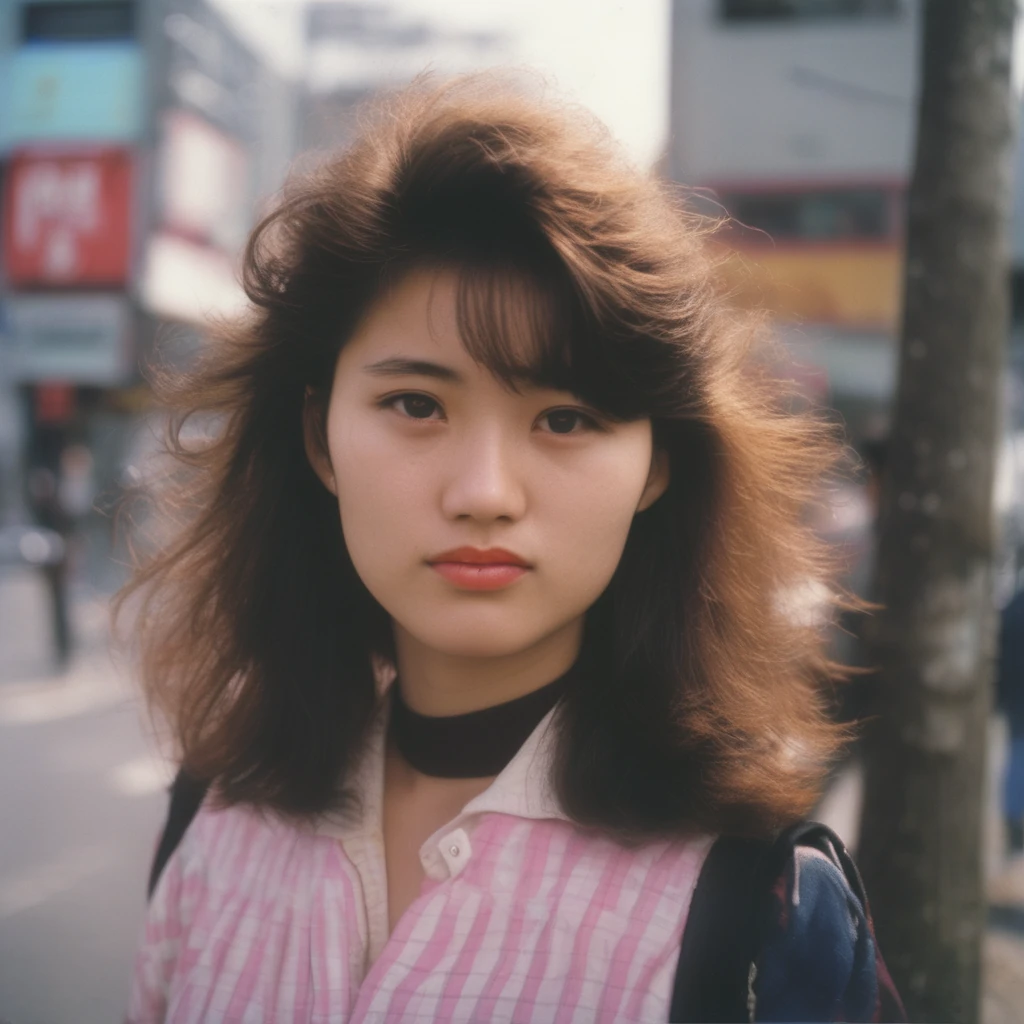
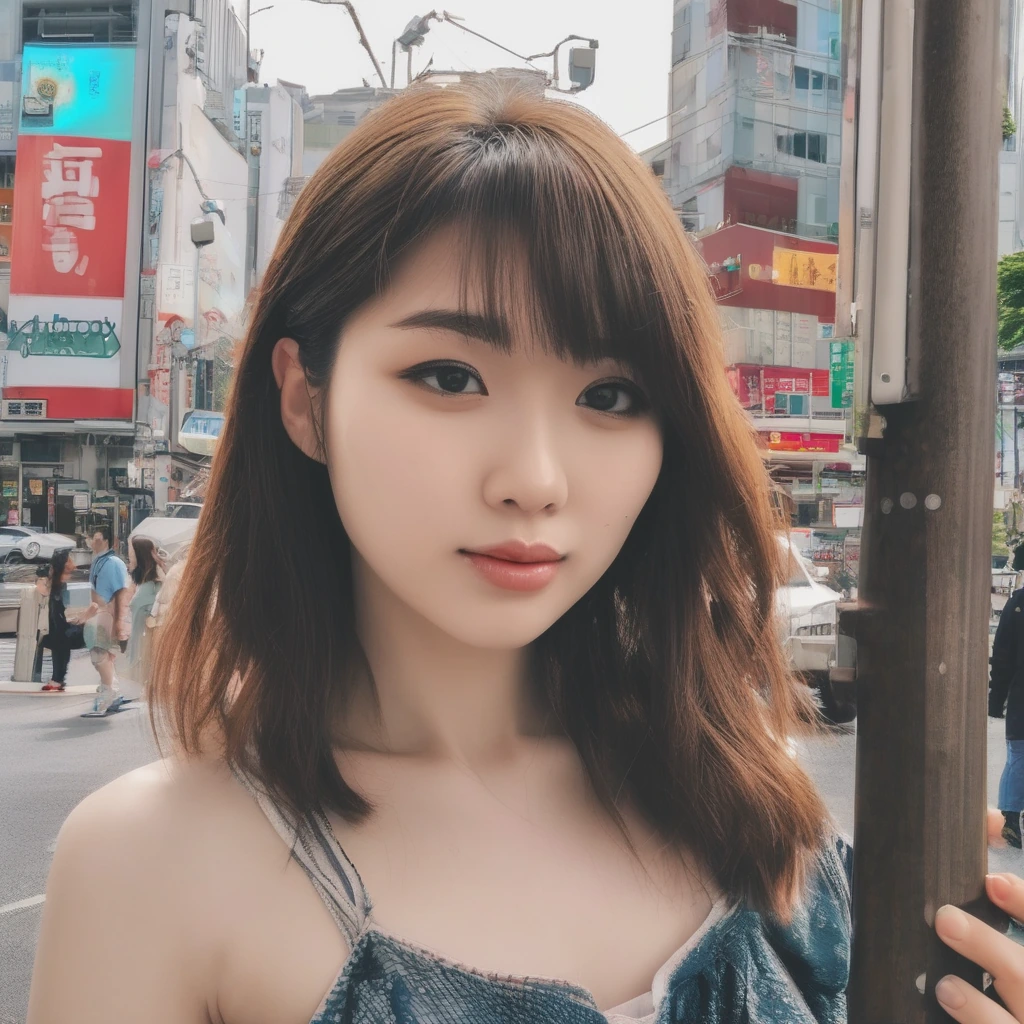
Add media

diff --git a/src/data/families.ts b/src/data/families.ts
@@ -65,10 +65,11 @@ const sdxlPmdFiles: Partial<Record<string, readonly string[]>> = {
   '01': ['iter825_seed51', 'iter825_seed52', 'iter825_seed53', 'iter825_seed57'],
   // Dog: RAW iteration 1750 seed 57, then RAW iteration 1050 seeds 51/52/57 (prompt_01_seed_* in the same run).
   '02': ['iter1750_seed57', 'iter1050_seed51', 'iter1050_seed52', 'iter1050_seed57'],
-  // Tokyo: checkpoint 5000 of the SDXL CGF-GAN directional run, three batches of four picked from seeds 51-75.
-  '03': ['ckpt5000_seed52', 'ckpt5000_seed55', 'ckpt5000_seed60', 'ckpt5000_seed70',
-         'ckpt5000_seed51', 'ckpt5000_seed53', 'ckpt5000_seed54', 'ckpt5000_seed59',
-         'ckpt5000_seed61', 'ckpt5000_seed63', 'ckpt5000_seed66', 'ckpt5000_seed67'],
+  // Tokyo ('A pretty Asian girl in Tokyo'): checkpoint 5000 of the SDXL CGF-GAN directional run, three batches of
+  // four picked from seeds 76-100.
+  '03': ['asian_ckpt5000_seed94', 'asian_ckpt5000_seed84', 'asian_ckpt5000_seed95', 'asian_ckpt5000_seed89',
+         'asian_ckpt5000_seed87', 'asian_ckpt5000_seed99', 'asian_ckpt5000_seed97', 'asian_ckpt5000_seed79',
+         'asian_ckpt5000_seed80', 'asian_ckpt5000_seed76', 'asian_ckpt5000_seed77', 'asian_ckpt5000_seed78'],
   // Traveler: same checkpoint 5000, three batches of four.
   '04': ['ckpt5000_seed55', 'ckpt5000_seed63', 'ckpt5000_seed67', 'ckpt5000_seed71',
          'ckpt5000_seed51', 'ckpt5000_seed54', 'ckpt5000_seed61', 'ckpt5000_seed62',
@@ -105,6 +106,11 @@ const sdxl: ModelFamily = {
   samples: [1, 2, 3, 4],
   // SDXL models rarely drew the robin's hat, so the SDXL robin images use a prompt without one.
   promptText: {
+    // SDXL Tokyo uses 'A pretty Asian girl in Tokyo' for every model.
+    '03': {
+      summary: 'A pretty Asian girl in Tokyo.',
+      full: 'A pretty Asian girl in Tokyo',
+    },
     '05': {
       summary: 'A robin on a bare branch.',
       full: 'A small robin perched on a bare branch on a quiet day.',
